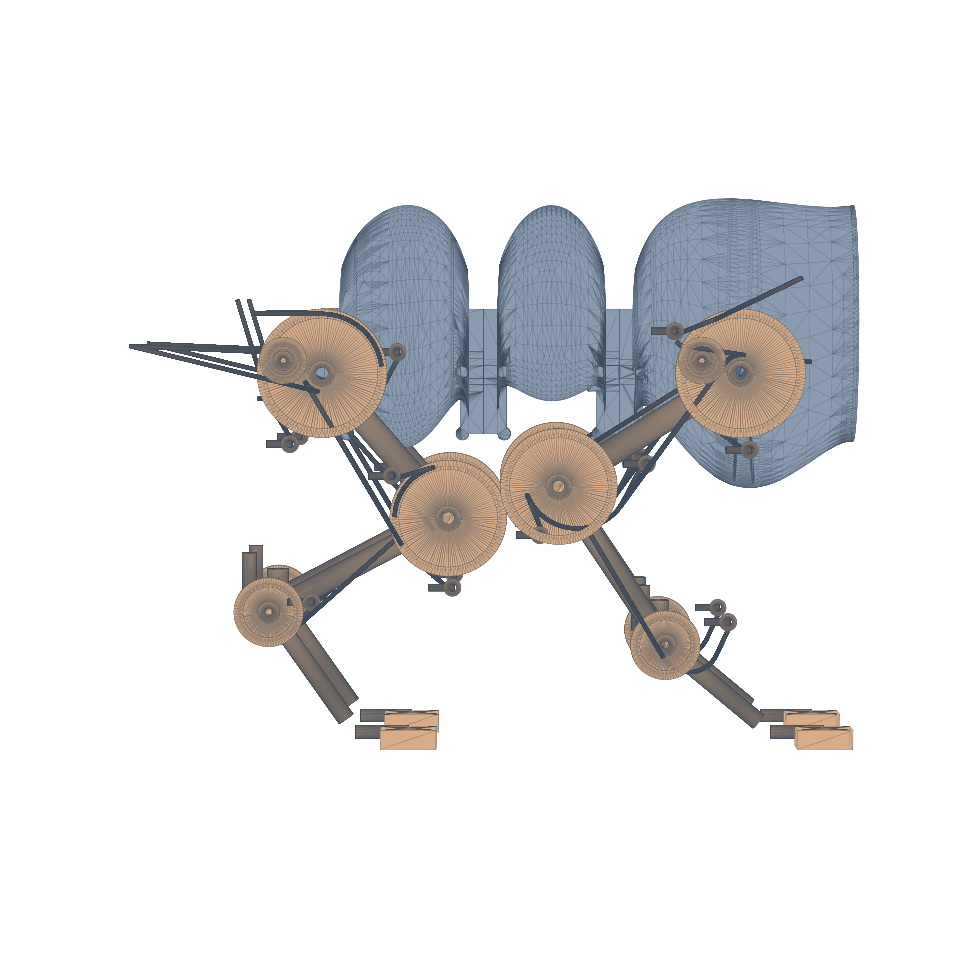
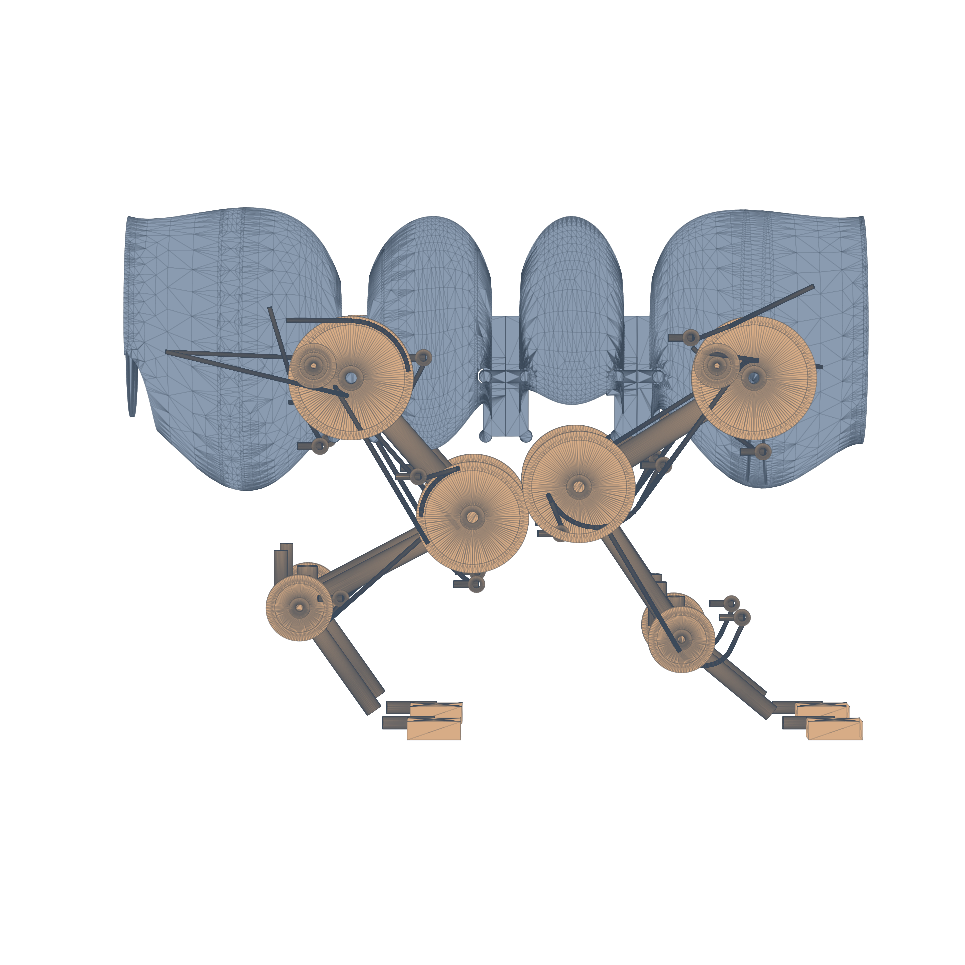
M91: the render died of memory and the back was never flat
Two things found while regenerating the pictures for the last commit.

The renderer ran out of memory, and the shell said exit 0
---------------------------------------------------------
`render_png` built one `Poly3DCollection` PER FACE. On the assembly that is
thousands of artists; matplotlib died inside its 3-D projection unable to
allocate **750 KiB**, no file was written, and the process still reported exit
code 0 with a truncated traceback. Both renderers batch the triangles into one
collection per colour now -- same picture, two artists -- and the trunk render
went from thrashing to about a minute.

"dorsal line flat at z = 79.8" was printing a CONSTANT
------------------------------------------------------
The line read `Z_DORSAL`, the parameter, not the shape. It would have said
"flat" whatever the trunk did. Measured across the trunk:

| station | top z |
|---|---|
| girdles | 79.8 |
| joint necks | **27.2** |

The back notches **52.6 mm at each of three joints** -- 42 % of the 126 mm chest
depth. That is the string of pods the render has been showing all along, and it
contradicts the requirement the trunk was shaped to: a flat back over a tucked
belly. `report()` measures it and FAILS on it now.

The cause is the spine joint axis at z = 0, the hip axis, which is ventral. Each
neck blends the section centre down to reach it and pulls the roof down with it.
This is the standing `[owed]` -- "the spine axis is ventral, not dorsal, and
[…]

Changed region(s): [[0.1244, 0.1865, 0.9016, 0.7772]]

diff --git a/mechanical/cad/tomcat_trunk.py b/mechanical/cad/tomcat_trunk.py
@@ -674,10 +674,23 @@ def report():
         return pts[-1][1]
 
     env = sum(math.pi * hw_at(x) * hw_at(x) * ASPECT for x in xs) * (hi - lo) / len(xs)
-    dorsal = [Z_DORSAL for x in xs]
+    # ⚠ **This line used to print `Z_DORSAL` and call it the dorsal line.** It
+    # was the parameter, not the shape, so it read "flat at 79.8" no matter what
+    # the trunk did -- and the trunk dips **34 mm at every joint**, because
+    # `_zc` blends the section CENTRE down to the spine axis at each neck and
+    # pulls the roof down with it. A flat back was the requirement. It is
+    # measured here now, and the notch is named.  `[owed]`
+    dorsal = [_zc(x) + hw_at(x) * ASPECT for x in xs]
     belly = [_zc(x) - hw_at(x) * ASPECT for x in xs]
     print()
-    print("  dorsal line      flat at z = %.1f mm above the hip axis" % Z_DORSAL)
+    if max(dorsal) - min(dorsal) < 1.0:
+        print("  dorsal line      flat at z = %.1f mm above the hip axis" % max(dorsal))
+    else:
+        print("  dorsal line      %.1f mm at the girdles, %.1f at the joint necks"
+              % (max(dorsal), min(dorsal)))
+        print("      *** the back is NOT flat: it notches %.1f mm at each of the "
+              "%d joints" % (max(dorsal) - min(dorsal), len(JOINT_X)))
+        ok = False
     print("  belly            %.1f mm at the chest -> %.1f at the waist  (tuck-up %.1f)"
           % (min(belly), max(belly), max(belly) - min(belly)))
     print("  motors           %d of 18" % n_mot)
@@ -726,8 +739,15 @@ def render_png(g, path, elev=16, azim=-62):
     # It was **three** faces before M91. The other two were on body 0, which the
     # tangential fuse had annihilated -- so two thirds of a standing `[owed]`
     # was a symptom of a different defect, not a limit of the mesher. 1 of 656.
+    # ⚠ One collection PER FACE ran the process out of memory -- it died inside
+    # matplotlib's projection unable to allocate 750 KiB, having built thousands
+    # of artists, and the shell still reported exit 0 with no file written. The
+    # triangles are batched into one collection per colour now: same picture,
+    # two artists.
     skipped = 0
+    batch = {}
     for i, s in enumerate(g if isinstance(g, list) else [g]):
+        col = ["#8a9bb0", "#9fb0c4"][i % 2]
         for f in s.faces():
             try:
                 verts, tris = f.tessellate(0.3)
@@ -735,11 +755,12 @@ def render_png(g, path, elev=16, azim=-62):
                 skipped += 1
                 continue
             V = np.array([[v.X, v.Y, v.Z] for v in verts])
-            coll = Poly3DCollection(V[np.array(tris)],
-                                    facecolor=["#8a9bb0", "#9fb0c4"][i % 2],
-                                    edgecolor="#3c4a5a", linewidth=0.08)
-            coll.set_zsort("average")
-            ax.add_collection3d(coll)
+            batch.setdefault(col, []).append(V[np.array(tris)])
+    for col, tri in batch.items():
+        coll = Poly3DCollection(np.concatenate(tri), facecolor=col,
+                                edgecolor="#3c4a5a", linewidth=0.08)
+        coll.set_zsort("average")
+        ax.add_collection3d(coll)
     if skipped:
         print("  *** " + str(skipped)
               + " face(s) would not mesh and are missing from the render")

diff --git a/mechanical/cad/tomcat_assembly.py b/mechanical/cad/tomcat_assembly.py
@@ -210,8 +210,12 @@ def render_png(path, elev=16, azim=-62):
     ax = fig.add_subplot(111, projection="3d")
     # ⚠ A few faces are valid and will not mesh -- see `tomcat_trunk.render_png`.
     # Drawn face by face so one bad face costs one face, not the whole robot.
+    # ⚠ Batched into one collection per colour. A collection per face built
+    # thousands of artists and the process died of memory exhaustion inside the
+    # 3-D projection -- while the shell reported exit 0 and wrote no file.
     skipped = 0
     for col, group in (("#8a9bb0", bodies), ("#d7ac86", legs)):
+        tri = []
         for s in group:
             for f in s.faces():
                 try:
@@ -220,10 +224,13 @@ def render_png(path, elev=16, azim=-62):
                     skipped += 1
                     continue
                 V = np.array([[v.X, v.Y, v.Z] for v in verts])
-                coll = Poly3DCollection(V[np.array(tris)], facecolor=col,
-                                        edgecolor="#3c4a5a", linewidth=0.06)
-                coll.set_zsort("average")
-                ax.add_collection3d(coll)
+                tri.append(V[np.array(tris)])
+        if not tri:
+            continue
+        coll = Poly3DCollection(np.concatenate(tri), facecolor=col,
+                                edgecolor="#3c4a5a", linewidth=0.06)
+        coll.set_zsort("average")
+        ax.add_collection3d(coll)
     if skipped:
         print("  *** " + str(skipped) + " face(s) would not mesh")
     whole = Compound(bodies + legs)
